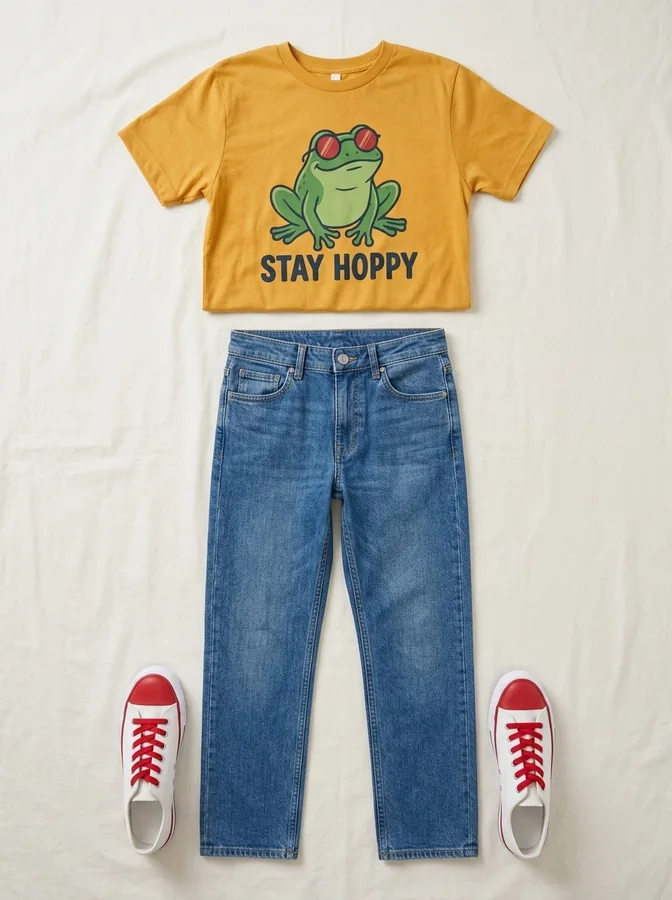
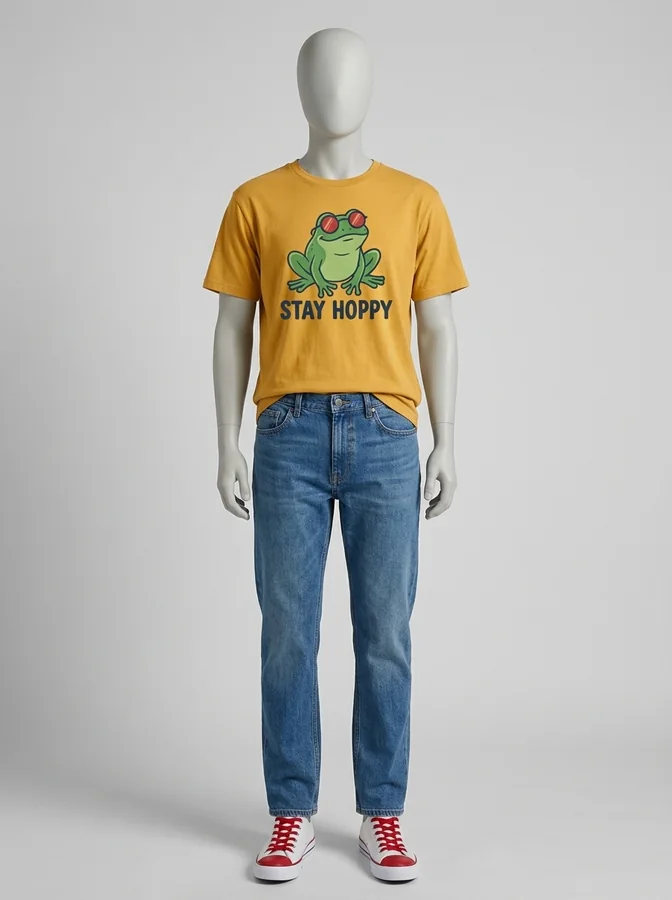
The first-visit example shows the outfit on a mannequin
The owner's call: worn on a mannequin, the three pieces read as an
outfit at a glance, where the flat lay looked like the same three
pictures rearranged. Made through the page by Google's model from the
same three pieces; the print, its lettering, the jeans and the sneakers
are kept.

Claude-Session: https://claude.ai/code/session_017zdSggJif3VSzpnYXHXVRZ

diff --git a/test/browser/site.test.js b/test/browser/site.test.js
@@ -1481,6 +1481,8 @@ test("a first visit shows an example outfit, and its three pieces can be tried w
   // The example's pictures really load, from the subfolder the site is served under.
   const loaded = await page.$$eval("#example img", (pictures) => pictures.map((picture) => picture.complete && picture.naturalWidth > 0));
   assert.deepEqual(loaded, [true, true, true, true]);
+  // The outfit is shown worn, on a mannequin, and described that way to someone who cannot see it.
+  assert.match(await page.getAttribute("#example .example-outfit img", "alt"), /mannequin wearing the T-shirt, the jeans and the sneakers/);
 
   await page.click("#example-try");
   await untilText(page, "#add-status", "Added the three example pieces");

diff --git a/public/index.html b/public/index.html
@@ -70,7 +70,7 @@
             <path d="M44 8l11 10-13 7" />
           </svg>
           <figure class="plate example-outfit">
-            <img src="examples/outfit.webp" alt="The T-shirt, jeans and sneakers laid out together as one outfit" width="672" height="900" />
+            <img src="examples/outfit.webp" alt="A mannequin wearing the T-shirt, the jeans and the sneakers as one outfit" width="672" height="900" />
             <figcaption>the outfit</figcaption>
           </figure>
         </div>
